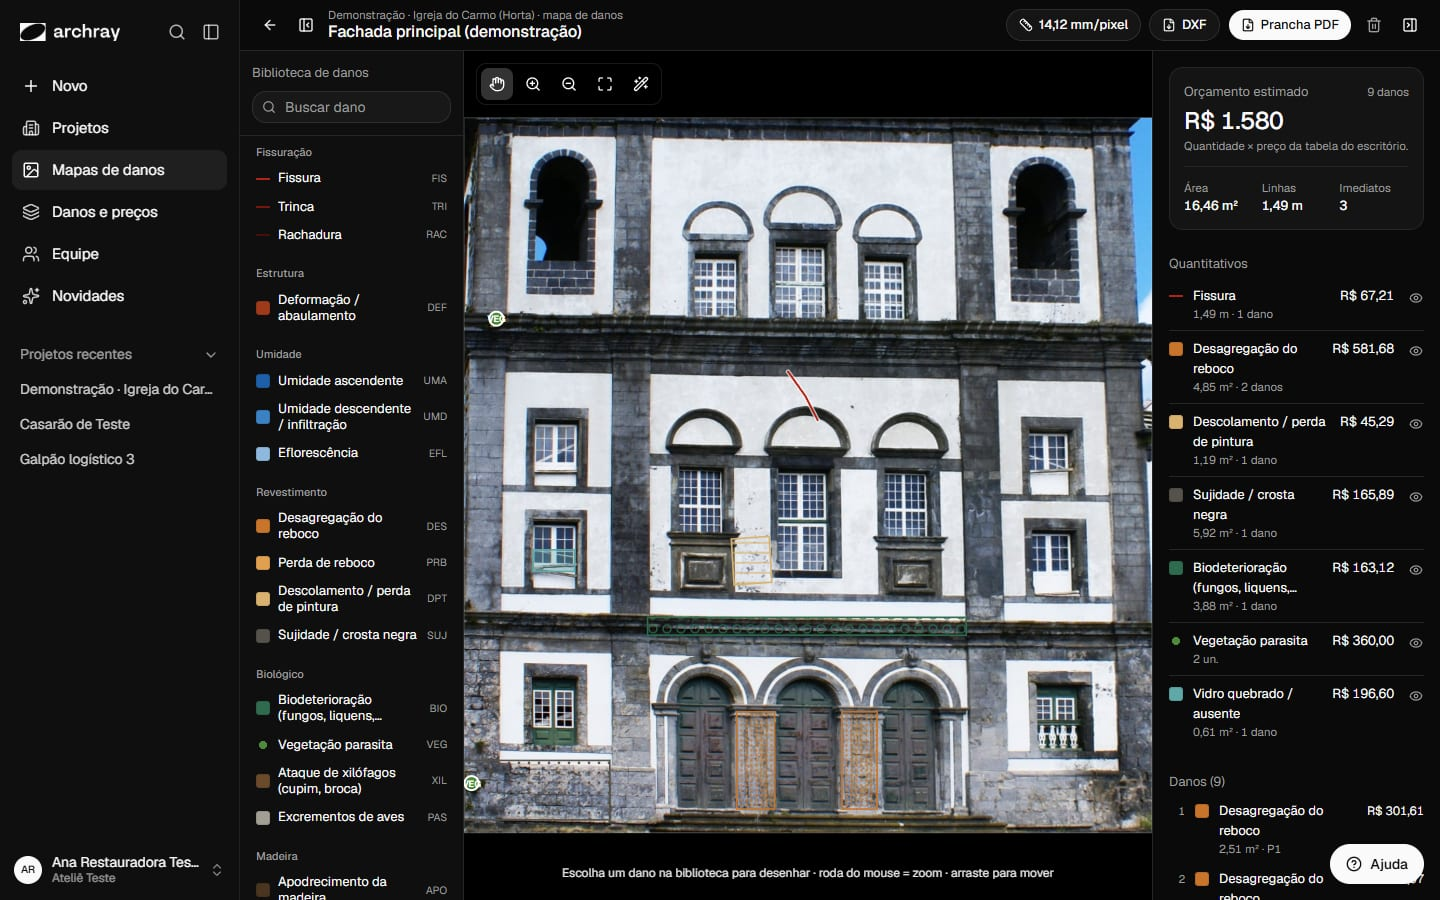
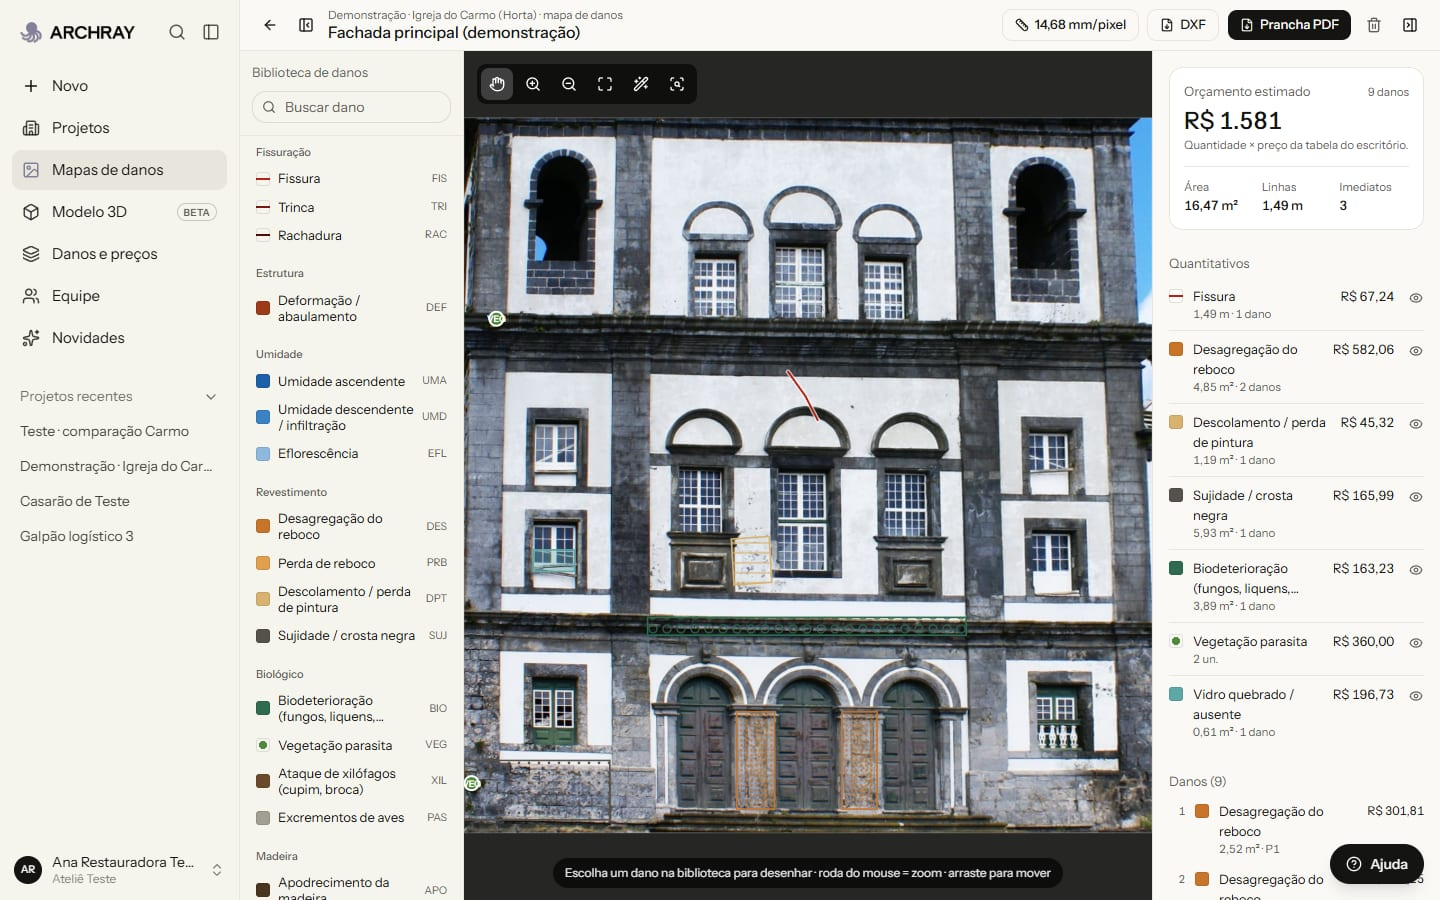
Nova ID: polvo lilás, cor #83809A e manchete com IA assistida
- Marca: ícone do polvo lilás (e versão clara), logo completa e nome
  ARCHRAY; favicons e logo dos PDFs refeitos.
- Cor principal lilás #83809A no lugar do terracota, no site e no app
  (tokens, destaques, gráficos, ilustrações); laranja só como alerta.
- Manchete: "Laudo com Mapa de Danos com IA assistida" + texto novo (PT/EN).
- Prints da Documentação regerados com o visual e a marca novos.

diff --git a/src/lib/exports/logo.ts b/src/lib/exports/logo.ts
@@ -1,3 +1,3 @@
-/** Logotipo do ArchRay (ícone terracota + "ARCHRAY", PNG transparente) para o laudo e o carimbo da prancha. Gerado de public/brand/logo-completa.png. */
+/** Logotipo do ArchRay (polvo lilás + "ARCHRAY", PNG transparente) para o laudo e o carimbo da prancha. Gerado de public/brand/logo-completa.png. */
 export const LOGO_PNG_BASE64 =
[2 lines of base64/hex data omitted]

diff --git a/src/components/site/illo.tsx b/src/components/site/illo.tsx
@@ -1,12 +1,12 @@
 /**
  * Ilustrações originais do site (mídia própria, sem fotos de terceiros): fundos chapados da
- * paleta quente e desenho técnico em traço fino, no espírito das colagens da Anthropic.
+ * paleta quente com o lilás da marca e desenho técnico em traço fino, no espírito das colagens da Anthropic.
  * Cada uma fala de uma parte da tecnologia do ArchRay. SVG 200×200, preenche o contêiner.
  */
 import { cn } from "@/lib/utils";
 
 const C = {
-  clay: "#d97757",
+  lilac: "#83809a",
   olive: "#788c5d",
   sky: "#6a9bcc",
   oat: "#e3dacc",
@@ -52,7 +52,7 @@ function Art({ name }: { name: IlloName }) {
       return (
         <>
           <rect width="200" height="200" fill={C.oat} />
-          <rect x="96" y="70" width="84" height="84" fill={C.clay} />
+          <rect x="96" y="70" width="84" height="84" fill={C.lilac} />
           <polygon points={q.map((p) => p.join(",")).join(" ")} {...line} fill={C.ivory} fillOpacity="0.55" />
           {[...v, ...h].map(([a, b], i) => (
             <line key={i} x1={a![0]} y1={a![1]} x2={b![0]} y2={b![1]} {...line} strokeWidth={0.8} />
@@ -73,7 +73,7 @@ function Art({ name }: { name: IlloName }) {
             <path key={x} d={`M${x} 112V90a8 8 0 0116 0v22zM${x} 165v-28h16v28`} {...line} />
           ))}
           <path d="M62 40V22h76v18M100 22V12" {...line} />
-          <rect x="128" y="132" width="26" height="22" fill={C.clay} fillOpacity="0.85" />
+          <rect x="128" y="132" width="26" height="22" fill={C.lilac} fillOpacity="0.85" />
         </>
       );
     case "fissura":
@@ -84,16 +84,16 @@ function Art({ name }: { name: IlloName }) {
           <path d="M40 18l14 26-6 14 16 22-4 18 20 26-8 16 22 30 4 18" {...line} strokeWidth={2.2} />
           <path d="M70 80l18-6M84 124l-16 10" {...line} strokeWidth={1} />
           {[0, 1, 2, 3, 4, 5, 6].map((i) => (
-            <path key={i} d={`M150 ${30 + i * 22}h${i % 2 ? 10 : 18}`} stroke={C.clay} strokeWidth="1.6" />
+            <path key={i} d={`M150 ${30 + i * 22}h${i % 2 ? 10 : 18}`} stroke={C.lilac} strokeWidth="1.6" />
           ))}
-          <path d="M150 30v132" stroke={C.clay} strokeWidth="1.6" />
+          <path d="M150 30v132" stroke={C.lilac} strokeWidth="1.6" />
         </>
       );
     case "contorno":
       return (
         <>
           <rect width="200" height="200" fill={C.cactus} />
-          <path d="M48 70l30-28 44 8 30 26-6 40 18 26-34 22-44-8-30-24 6-30z" fill={C.clay} fillOpacity="0.7" stroke={C.ink} strokeWidth="1.4" strokeDasharray="5 4" />
+          <path d="M48 70l30-28 44 8 30 26-6 40 18 26-34 22-44-8-30-24 6-30z" fill={C.lilac} fillOpacity="0.7" stroke={C.ink} strokeWidth="1.4" strokeDasharray="5 4" />
           {[
             [48, 70],
             [78, 42],
@@ -125,14 +125,14 @@ function Art({ name }: { name: IlloName }) {
           ].map(([x, y, w, h], i) => (
             <rect key={i} x={x} y={y} width={w} height={h} fill="none" stroke={C.ivory} strokeWidth="1.2" strokeDasharray="4 3" />
           ))}
-          <path d="M30 120c8-6 14 4 22-4s12 2 20 0" stroke={C.clay} strokeWidth="2" fill="none" />
+          <path d="M30 120c8-6 14 4 22-4s12 2 20 0" stroke={C.lilac} strokeWidth="2" fill="none" />
           {[
             [130, 40],
             [150, 116],
             [60, 50],
             [146, 164],
           ].map(([x, y], i) => (
-            <circle key={i} cx={x} cy={y} r="4.5" fill={C.clay} />
+            <circle key={i} cx={x} cy={y} r="4.5" fill={C.lilac} />
           ))}
         </>
       );
@@ -146,8 +146,8 @@ function Art({ name }: { name: IlloName }) {
               <path d={`M${20 + s * 100} 170V60h60v110M${32 + s * 100} 104v-14a8 8 0 0116 0v14M${32 + s * 100} 150v-24h36v24`} />
             </g>
           ))}
-          <rect x="140" y="128" width="24" height="16" fill={C.clay} />
-          <rect x="38" y="132" width="10" height="8" fill={C.clay} fillOpacity="0.6" />
+          <rect x="140" y="128" width="24" height="16" fill={C.lilac} />
+          <rect x="38" y="132" width="10" height="8" fill={C.lilac} fillOpacity="0.6" />
           <path d="M100 0v200" stroke={C.ivory} strokeWidth="2" />
           <circle cx="100" cy="100" r="11" fill={C.ivory} />
           <path d="M94 100h12M94 100l3-3M94 100l3 3M106 100l-3-3M106 100l-3 3" stroke={C.ink} strokeWidth="1.3" fill="none" />
@@ -167,7 +167,7 @@ function Art({ name }: { name: IlloName }) {
             <path d="M66 94l14-18 12 10 16-14 22 22" fill="none" stroke={C.ink} strokeWidth="1.2" />
             {[0, 1, 2, 3].map((i) => (
               <g key={i}>
-                <rect x="58" y={112 + i * 12} width="6" height="6" fill={[C.clay, C.sky, C.olive, C.fig][i]} />
+                <rect x="58" y={112 + i * 12} width="6" height="6" fill={[C.lilac, C.sky, C.olive, C.fig][i]} />
                 <rect x="70" y={113 + i * 12} width={56 - i * 8} height="4" fill={C.ink} fillOpacity="0.25" />
               </g>
             ))}
@@ -181,7 +181,7 @@ function Art({ name }: { name: IlloName }) {
           {[0, 1, 2].flatMap((r) =>
             [0, 1, 2].map((c) => {
               const k = r * 3 + c;
-              const fill = [C.ivory, C.oat, C.clay, C.oat, C.clay, C.ink, C.clay, C.ink, C.ink][k];
+              const fill = [C.ivory, C.oat, C.lilac, C.oat, C.lilac, C.ink, C.lilac, C.ink, C.ink][k];
               return <rect key={k} x={34 + c * 46} y={34 + r * 46} width="40" height="40" fill={fill} />;
             }),
           )}
@@ -191,7 +191,7 @@ function Art({ name }: { name: IlloName }) {
     case "escala":
       return (
         <>
-          <rect width="200" height="200" fill={C.clay} />
+          <rect width="200" height="200" fill={C.lilac} />
           <g transform="rotate(-28 100 100)">
             <rect x="10" y="80" width="180" height="40" fill={C.ivory} />
             {Array.from({ length: 35 }).map((_, i) => (
@@ -223,7 +223,7 @@ function Art({ name }: { name: IlloName }) {
           {[48, 62, 80, 104, 136, 180].map((y, i) => (
             <path key={`h${i}`} d={`M${100 - (y - 40) * 0.69 - 36} ${y}H${100 + (y - 40) * 0.69 + 36}`} {...line} strokeWidth={0.9} />
           ))}
-          <circle cx="100" cy="24" r="6" fill={C.clay} />
+          <circle cx="100" cy="24" r="6" fill={C.lilac} />
         </>
       );
     case "pontos":
@@ -237,7 +237,7 @@ function Art({ name }: { name: IlloName }) {
             const x = 40 + ((i * 53) % 120);
             const roof = x < 100 ? 70 - (x - 40) * 0.6 : 34 + (x - 100) * 0.6;
             const y = roof + r * (170 - roof);
-            return <circle key={i} cx={x + Math.sin(t) * 1.5} cy={y} r={i % 9 ? 1.4 : 2.2} fill={i % 11 ? C.ivory : C.clay} />;
+            return <circle key={i} cx={x + Math.sin(t) * 1.5} cy={y} r={i % 9 ? 1.4 : 2.2} fill={i % 11 ? C.ivory : C.lilac} />;
           })}
         </>
       );
@@ -245,7 +245,7 @@ function Art({ name }: { name: IlloName }) {
       return (
         <>
           <rect width="200" height="200" fill={C.sand} />
-          {[C.sky, C.olive, C.clay].map((fill, i) => (
+          {[C.sky, C.olive, C.lilac].map((fill, i) => (
             <polygon key={i} points={`100,${40 + i * 34} 168,${74 + i * 34} 100,${108 + i * 34} 32,${74 + i * 34}`} fill={fill} stroke={C.ink} strokeWidth="1.2" />
           ))}
         </>

diff --git a/src/lib/site/site-copy.ts b/src/lib/site/site-copy.ts
@@ -70,12 +70,12 @@ const pt = {
   },
 
   home: {
-    metaTitle: "ArchRay — Laudo com Mapa de danos com tecnologia própria",
+    metaTitle: "ArchRay — Laudo com Mapa de Danos com IA assistida",
     metaDescription:
       "O ArchRay converte fotos de fachada em desenho técnico em escala, mede cada patologia e entrega orçamento e laudo. Tecnologia própria do Estúdio Restaura.",
-    lead: "Laudo com Mapa de danos com tecnologia própria.",
+    lead: "Laudo com Mapa de Danos com IA assistida.",
     manifesto:
-      "O ArchRay converte fotos de fachada em desenho técnico em escala, mede cada patologia e entrega orçamento e laudo — com o rigor do Estúdio Restaura e um motor que nós mesmos construímos.",
+      "Vistoriamos, retificamos e mapeamos cada dano de fachadas com tecnologia própria — e entregamos quantitativos, orçamento do tratamento e laudo com prioridades, prontos para decidir, aprovar e começar a obra.",
     featureTitle: "Reinventamos o mapa de danos",
     featureText:
       "Retificação métrica, detecção automática e comparação entre vistorias num motor próprio, que roda no navegador. A máquina mede; o arquiteto decide.",
@@ -330,12 +330,12 @@ const en: Copy = {
   },
 
   home: {
-    metaTitle: "ArchRay — Condition reports with damage mapping, built on in-house technology",
+    metaTitle: "ArchRay — Condition reports with AI-assisted damage mapping",
     metaDescription:
       "ArchRay turns facade photos into scaled technical drawings, measures every defect and delivers the budget and the report. In-house technology by Estúdio Restaura.",
-    lead: "Condition reports with damage mapping, built on in-house technology.",
+    lead: "Condition reports with AI-assisted damage mapping.",
     manifesto:
-      "ArchRay turns facade photos into scaled technical drawings, measures every defect and delivers the budget and the report — with Estúdio Restaura's rigour and an engine we built ourselves.",
+      "We survey, rectify and map every damage on facades with in-house technology — and deliver quantities, a treatment budget and a prioritised report, ready to decide, approve and start the works.",
     featureTitle: "We reinvented the damage map",
     featureText:
       "Metric rectification, automatic detection and survey comparison in an engine of our own that runs in the browser. The machine measures; the architect decides.",

diff --git a/src/app/globals.css b/src/app/globals.css
@@ -56,8 +56,8 @@
   --radius-4xl: calc(var(--radius) * 2.6);
 }
 
-/* ArchRay — paleta quente inspirada na Anthropic: marfim, grafite e terracota.
-   Cinzas quentes (escala 050–950), terracota como destaque e, nos gráficos, oliva, céu e figo.
+/* ArchRay — marfim, grafite e o lilás da marca (#83809A, a cor do polvo) como destaque.
+   Cinzas quentes (escala 050–950) e, nos gráficos, lilás, oliva, céu e figo.
    As cores da legenda de danos continuam sendo as do desenho técnico. */
 :root {
   --background: #faf9f5;
@@ -77,13 +77,13 @@
   --destructive: #b5432f;
   --border: #e8e6dc;
   --input: #dedcd1;
-  --ring: #c6613f;
-  --brand: #c6613f;
-  --brand-soft: #f5e9e2;
+  --ring: #83809a;
+  --brand: #83809a;
+  --brand-soft: #eeedf3;
   --success: #788c5d;
   --warning: #d97757;
   --canvas: #262624;
-  --chart-1: #d97757;
+  --chart-1: #83809a;
   --chart-2: #788c5d;
   --chart-3: #6a9bcc;
   --chart-4: #c46686;
@@ -96,7 +96,7 @@
   --sidebar-accent: #e8e6dc;
   --sidebar-accent-foreground: #141413;
   --sidebar-border: #e8e6dc;
-  --sidebar-ring: #c6613f;
+  --sidebar-ring: #83809a;
   --shadow-soft: 0 1px 2px rgb(20 20 19 / 0.04), 0 4px 16px rgb(20 20 19 / 0.05);
   --shadow-focus: 0 2px 24px rgb(20 20 19 / 0.08);
   color-scheme: light;
@@ -120,13 +120,13 @@
   --destructive: #e07a63;
   --border: #3d3d3a;
   --input: #4d4c48;
-  --ring: #d97757;
-  --brand: #d97757;
-  --brand-soft: #3a2a22;
+  --ring: #a6a3bb;
+  --brand: #a6a3bb;
+  --brand-soft: #2f2e38;
   --success: #9db27f;
   --warning: #d97757;
   --canvas: #141413;
-  --chart-1: #d97757;
+  --chart-1: #a6a3bb;
   --chart-2: #9db27f;
   --chart-3: #90c3f6;
   --chart-4: #d987a3;
@@ -138,7 +138,7 @@
   --sidebar-accent: #30302e;
   --sidebar-accent-foreground: #faf9f5;
   --sidebar-border: #30302e;
-  --sidebar-ring: #d97757;
+  --sidebar-ring: #a6a3bb;
   --shadow-soft: 0 1px 2px rgb(0 0 0 / 0.5);
   --shadow-focus: 0 0 0 1px rgb(255 255 255 / 0.06);
   color-scheme: dark;
@@ -161,7 +161,7 @@
 }
 
 ::selection {
-  background: #d97757;
+  background: #cfcddc;
   color: #141413;
 }
 

diff --git a/src/components/site/site.css b/src/components/site/site.css
@@ -1,6 +1,6 @@
 /*
  * Site público do ArchRay — linguagem visual inspirada na Anthropic: fundo marfim, grafite,
- * cartões bege, títulos sem serifa em negrito, manchetes-manifesto em serifa, terracota como
+ * cartões bege, títulos sem serifa em negrito, manchetes-manifesto em serifa, o lilás da marca como
  * destaque e rodapé quase preto. Claro por padrão; .site-dark liga a variante escura quente.
  * Os tokens valem só dentro de .site-theme (independem do tema escolhido no app).
  */
@@ -22,14 +22,14 @@
   --accent-foreground: #141413;
   --border: #e8e6dc;
   --input: #dedcd1;
-  --ring: #c6613f;
+  --ring: #83809a;
   /* cartões, faixas e pílulas */
   --site-elev: #f5f4ed;
   --site-band: #f0eee6;
   --site-pill: #f0eee6;
   --site-pill-hover: #e8e6dc;
   --site-btn2: #e8e6dc;
-  --site-clay: #d97757;
+  --site-accent: #83809a;
   --site-grid: rgb(20 20 19 / 0.07);
   color-scheme: light;
   background: var(--background);
@@ -53,13 +53,14 @@
   --accent-foreground: #faf9f5;
   --border: #3d3d3a;
   --input: #4d4c48;
-  --ring: #d97757;
+  --ring: #a6a3bb;
   --site-elev: #262624;
   --site-band: #262624;
   --site-pill: #30302e;
   --site-pill-hover: #3d3d3a;
   --site-btn2: #3d3d3a;
   --site-grid: rgb(250 249 245 / 0.07);
+  --site-accent: #a6a3bb;
   color-scheme: dark;
 }
 

diff --git a/src/lib/site/docs.ts b/src/lib/site/docs.ts
@@ -121,7 +121,7 @@ export const DOC_STEPS: DocStep[] = [
       "Clique numa sugestão para aproximar. Se a classe estiver errada, troque em Classe do dano.",
       "Enter (ou Aceitar como dano) transforma a sugestão em dano; Delete (ou Não é dano) descarta. A próxima abre sozinha.",
     ],
-    shot: { src: "/docs/12-deteccao.jpg", alt: "Editor com sugestões tracejadas da detecção automática e a lista no painel direito", caption: "Quatro sugestões tracejadas na fachada do Carmo, com a confiança de cada uma no painel à direita." },
+    shot: { src: "/docs/12-deteccao.jpg", alt: "Editor com sugestões tracejadas da detecção automática e a lista no painel direito", caption: "Sugestões tracejadas na fachada do Carmo, com a confiança de cada uma no painel à direita." },
     tips: [
       "Use a Confiança mínima para esconder as sugestões duvidosas.",
       "Funciona melhor em fachadas retificadas de reboco claro. Em pedra escura, texturas fortes e sombras, confira com mais cuidado.",

diff --git a/src/components/app-nav.tsx b/src/components/app-nav.tsx
@@ -179,7 +179,7 @@ function NavContent({
           aria-label="ArchRay — início"
           className={cn("flex h-9 items-center rounded-lg hover:bg-sidebar-accent", collapsed ? "w-9 justify-center" : "gap-2 px-2")}
         >
-          <BrandMark className="h-[26px]" />
+          <BrandMark className="h-[21px]" />
           {!collapsed && <BrandLogo className="h-[13px]" />}
         </Link>
         <div className={cn("flex items-center gap-0.5", collapsed && "flex-col")}>
@@ -294,7 +294,7 @@ export function MobileBar({ user, recent }: { user: SessionUser; recent: Recent 
       <button aria-label="Menu" onClick={() => setOpen(true)} className="-ml-1 grid size-9 place-items-center rounded-lg hover:bg-muted">
         <Menu className="size-5" />
       </button>
-      <BrandMark className="h-6" />
+      <BrandMark className="h-[19px]" />
       <BrandLogo className="h-[12px]" />
       <Sheet open={open} onOpenChange={setOpen}>
         <SheetContent side="left" className="w-72 bg-sidebar p-0">

diff --git a/src/lib/site/docs-en.ts b/src/lib/site/docs-en.ts
@@ -109,7 +109,7 @@ export const DOC_STEPS_EN: DocStep[] = [
       "Click a suggestion to zoom in. If the class is wrong, change it under Classe do dano.",
       "Enter (or Aceitar como dano) turns the suggestion into a damage; Delete (or Não é dano) discards it. The next one opens by itself.",
     ],
-    shot: { src: "/docs/12-deteccao.jpg", alt: "Editor with dashed suggestions from automatic detection and the list in the right panel", caption: "Four dashed suggestions on the Carmo facade, each with its confidence in the right panel." },
+    shot: { src: "/docs/12-deteccao.jpg", alt: "Editor with dashed suggestions from automatic detection and the list in the right panel", caption: "Dashed suggestions on the Carmo facade, each with its confidence in the right panel." },
     tips: [
       "Use the minimum confidence (Confiança mínima) to hide doubtful suggestions.",
       "It works best on rectified facades with light render. On dark stone, strong textures and shadows, check more carefully.",

diff --git a/src/components/brand.tsx b/src/components/brand.tsx
@@ -1,13 +1,13 @@
 import { cn } from "@/lib/utils";
 
 /**
- * Símbolo do ArchRay: o "x" terracota com as letras a·r·a·y (public/brand/icone.png).
- * É o mesmo nos temas claro e escuro; a versão preta (icone-preta) fica para impressão.
+ * Símbolo do ArchRay: o polvo lilás (public/brand/icone.png; versão clara em icone-branco.png).
+ * É o mesmo nos temas claro e escuro.
  */
 export function BrandMark({ className }: { className?: string }) {
   return (
     // eslint-disable-next-line @next/next/no-img-element
-    <img src="/brand/icone.png" alt="" aria-hidden width={374} height={458} className={cn("h-7 w-auto shrink-0", className)} />
+    <img src="/brand/icone.png" alt="" aria-hidden width={386} height={364} className={cn("h-7 w-auto shrink-0", className)} />
   );
 }
 

diff --git a/src/components/site/site-header.tsx b/src/components/site/site-header.tsx
@@ -64,7 +64,7 @@ export async function SiteHeader({ rootId, lang }: { rootId: string; lang: Lang 
           ))}
         </nav>
         <Link href="/" aria-label={lang === "en" ? "ArchRay — home" : "ArchRay — início"} className="col-start-1 row-start-1 flex shrink-0 items-center gap-2 justify-self-start lg:col-start-2 lg:justify-self-center">
-          <BrandMark className="h-[30px]" />
+          <BrandMark className="h-[24px]" />
           <BrandLogo className="site-logo h-[15px]" />
         </Link>
         <div className="col-start-3 row-start-1 flex items-center justify-end gap-1.5">

diff --git a/src/app/(site)/empresas/page.tsx b/src/app/(site)/empresas/page.tsx
@@ -154,7 +154,7 @@ export default async function EmpresasPage() {
               <ul className="mt-8 border-t text-[15px] leading-6">
                 {s.gain.map((g) => (
                   <li key={g} className="flex gap-3 border-b py-3">
-                    <span className="mt-[9px] size-1.5 shrink-0 rounded-full bg-[var(--site-clay)]" />
+                    <span className="mt-[9px] size-1.5 shrink-0 rounded-full bg-[var(--site-accent)]" />
                     {g}
                   </li>
                 ))}

diff --git a/src/components/site/site-footer.tsx b/src/components/site/site-footer.tsx
@@ -23,7 +23,7 @@ export function SiteFooter({ lang }: { lang: Lang }) {
       <div className="grid gap-12 lg:grid-cols-[1fr_2fr] lg:gap-16">
         <div>
           <Link href="/" className="flex items-center gap-2.5" aria-label="ArchRay">
-            <BrandMark className="h-[40px]" />
+            <BrandMark className="h-[30px]" />
             <BrandLogo className="site-logo h-[19px]" />
           </Link>
           <p className="mt-5 max-w-xs text-[14px] leading-6 text-muted-foreground">{s.footer.blurb}</p>
